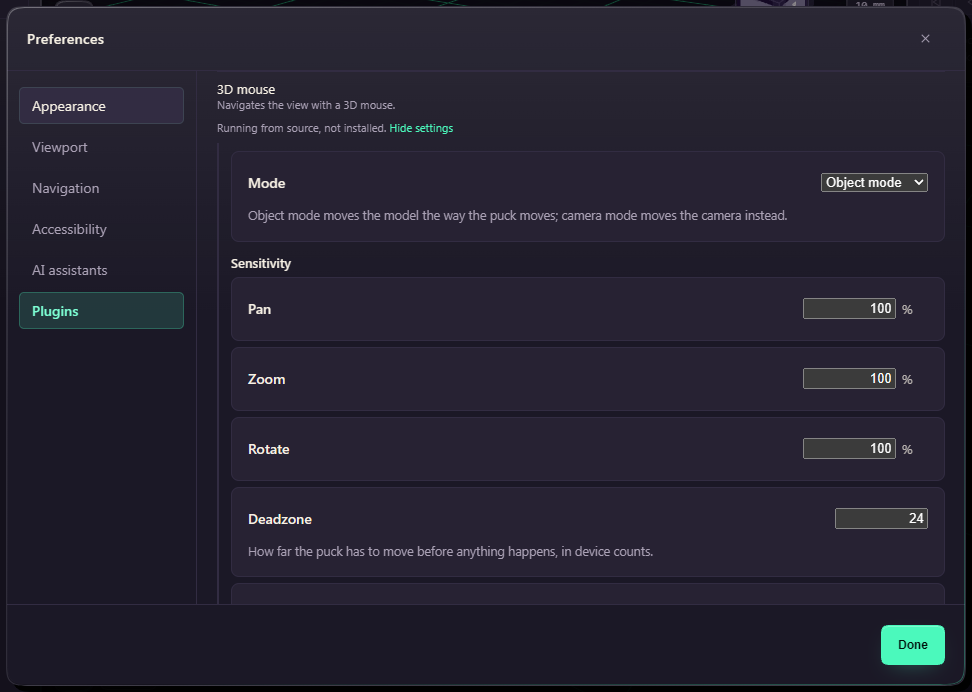
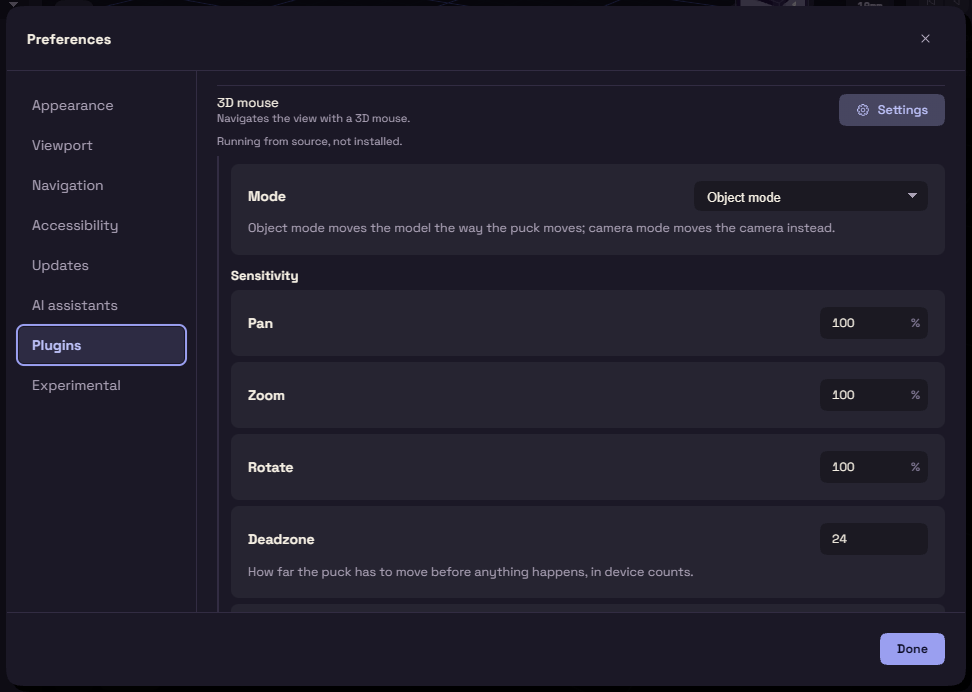
docs: The game controller and 3D mouse pictures show each plugin's settings open

diff --git a/manual/docs/plugins/gamepad.md b/manual/docs/plugins/gamepad.md
@@ -19,6 +19,6 @@ Plug it in and press any button, FundaCAD only notices a controller after its fi
 | Right stick click | Fit View |
 | D-pad up, down, left, right | Top, Front, Isometric and Right views |
 
-To change a button, open its Settings in Edit, Preferences, Plugins and pick a key or a command under Buttons. Pan speed, Rotate speed, Zoom speed, Stick deadzone and the invert switches are there too.
+To change a button, open its Settings in Edit, Preferences, Plugins and pick a key or a command under Buttons. Pan speed, Rotate speed, Zoom speed, Cursor speed, Stick deadzone and the invert switches are there too.
 
 On a Steam Deck, add FundaCAD to Steam as a non-Steam game and start it from there, so the app sees a controller. The trackpads keep working as a mouse.

diff --git a/manual/docs/plugins/spacemouse.md b/manual/docs/plugins/spacemouse.md
@@ -13,6 +13,7 @@ Button 1 fits the view and button 2 returns to the isometric view.
 
 View, 3D Mouse Settings opens its settings.
 
+- Mode picks Object mode or Camera mode, as the View menu does.
 - Pan, Zoom and Rotate set the speeds.
 - Deadzone: raise it if the view creeps.
 - Cross-axis filter stops a hard tilt from also zooming.
